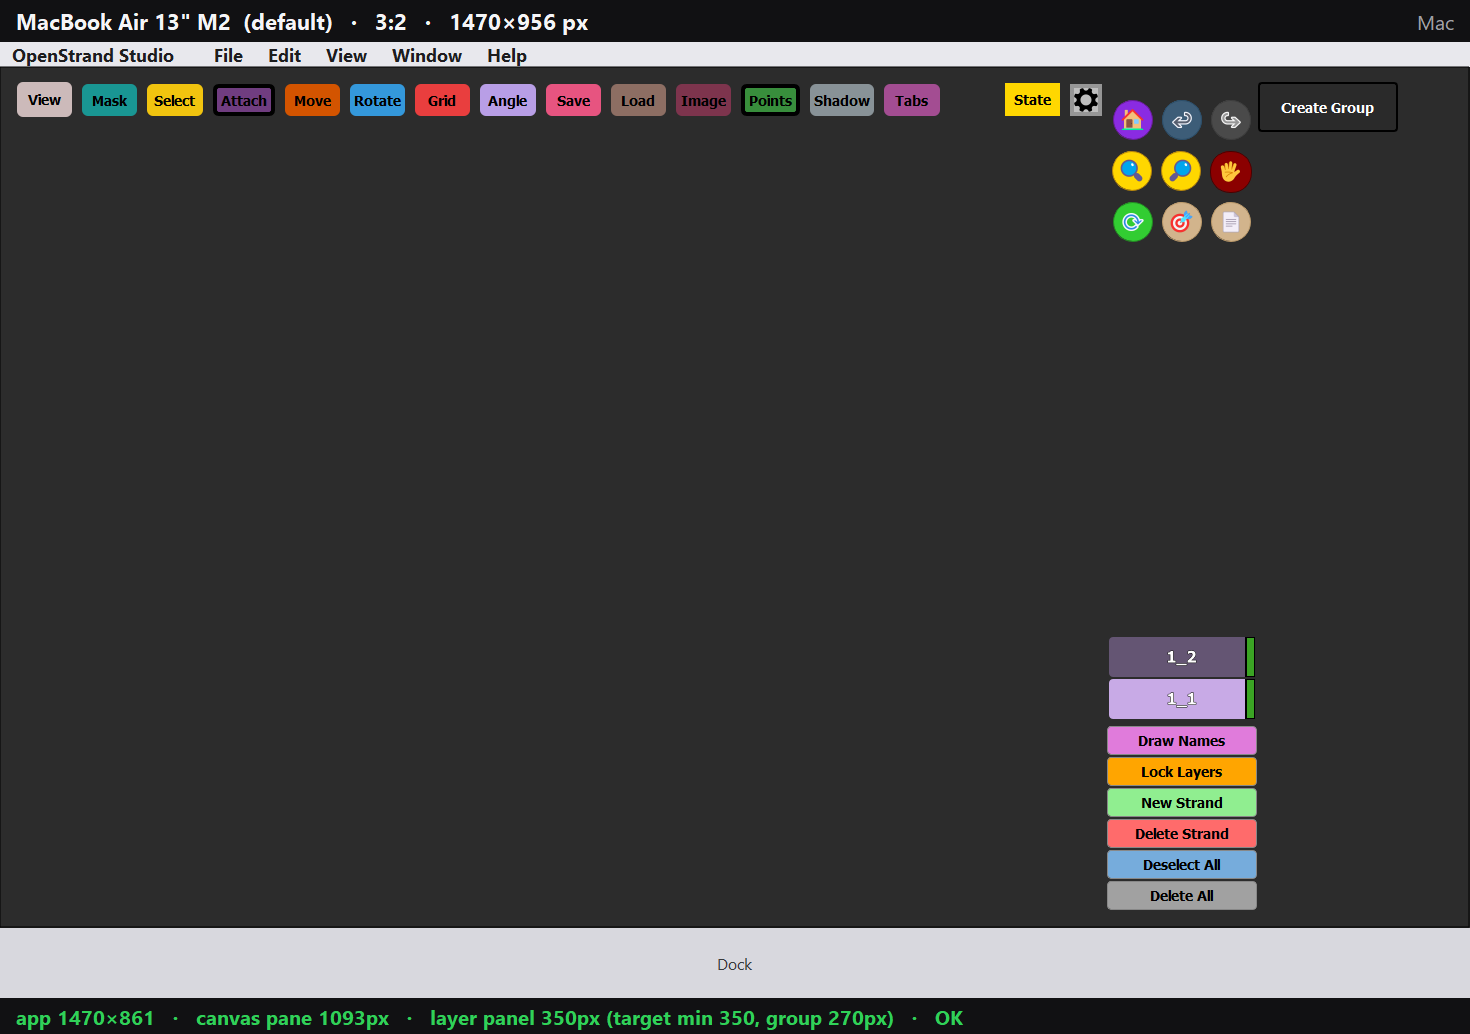
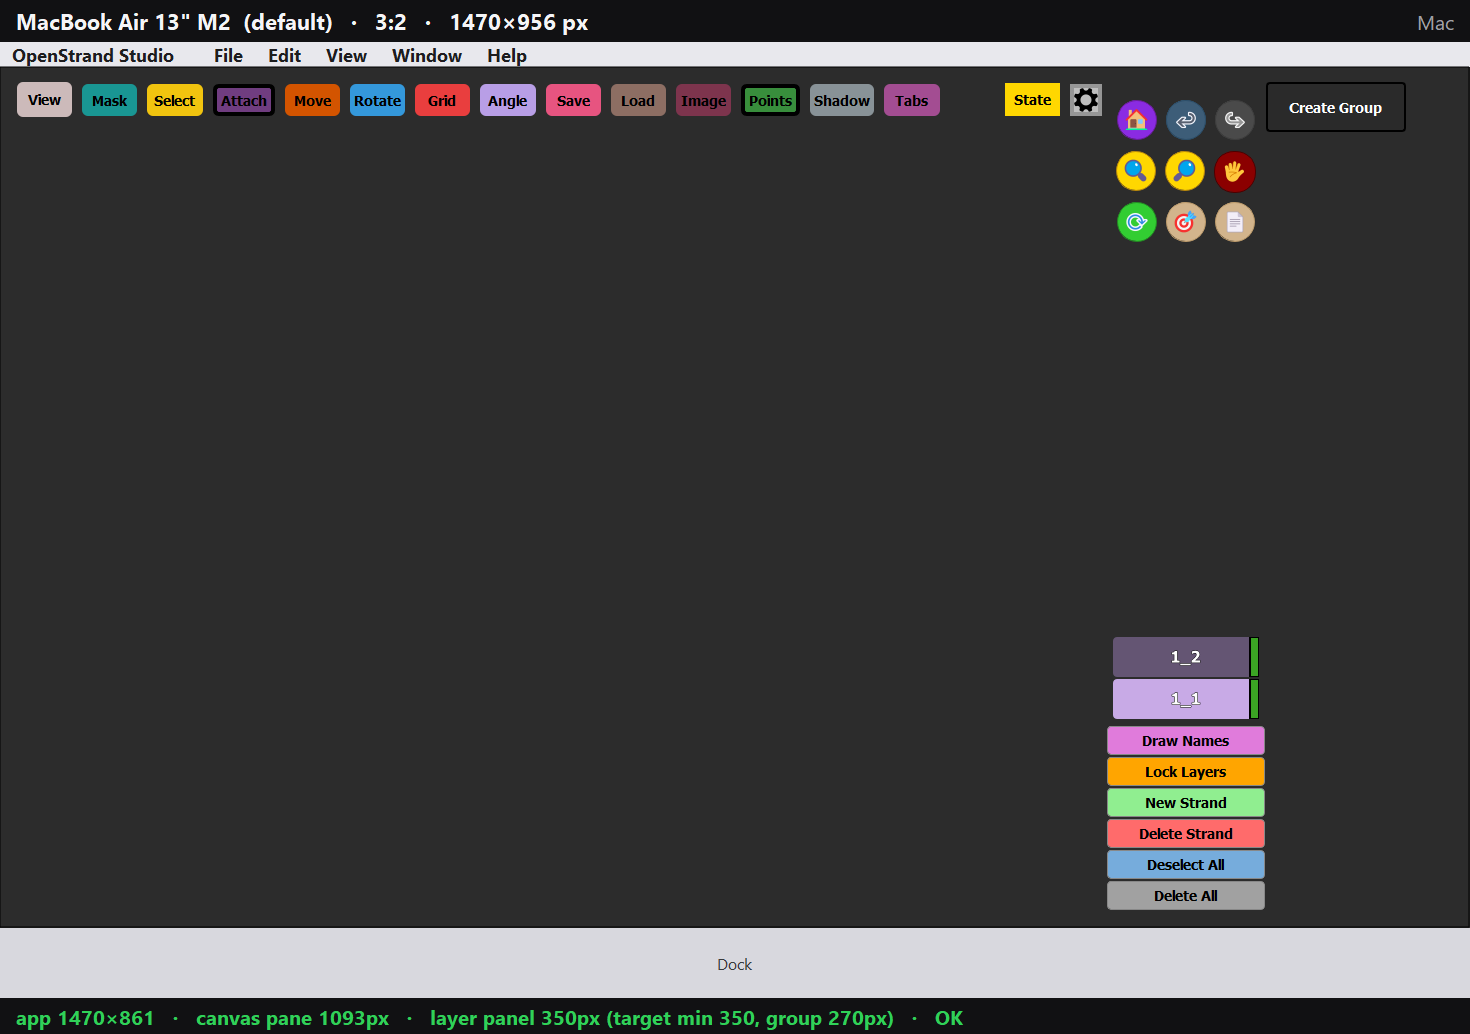
Reserve a vertical-scrollbar gutter in the compact layer panel
On compact screens (<1350px) the layer-list column was exactly as wide
as the fixed-width layer buttons, so the vertical scrollbar that appears
with many layers was painted under the group panel and covered the
buttons' edge. The list slot now reserves button width + scrollbar
extent (~158px) and the group panel genuinely shortens to the remainder
(~135px, Create Group capped to fit), so the scrollbar sits in its own
gutter beside the buttons. Wide screens keep their stock layout,
verified pixel-identical.

Adds a 30-layer capture script producing screenshots 11/12 that show the
scrollbar at compact and full widths, plus a feature README with porting
notes for the JS version.

Changed region(s): [[0.7653, 0.619, 0.8571, 0.8975], [0.7347, 0.0928, 0.949, 0.2476]]

diff --git a/src/layer_panel.py b/src/layer_panel.py
@@ -381,6 +381,8 @@ class LayerPanel(StrandDataClipboardMixin, QWidget):
     # Full width of the group panel (right_panel); narrow screens subtract
     # half of the compact reduction from it via set_compact_reduction.
     GROUP_PANEL_FULL_WIDTH = 270
+    # Fixed width of NumberedLayerButton (setFixedSize(146, 40)).
+    LAYER_LIST_BUTTON_WIDTH = 146
 
     def __init__(self, canvas, parent=None):
         super().__init__(parent)
@@ -1759,7 +1761,40 @@ class LayerPanel(StrandDataClipboardMixin, QWidget):
         The total reduction is split evenly: half comes off the group panel's
         fixed width, half off the layer list (which shrinks automatically once
         the panel's overall minimum width drops by the full reduction)."""
-        self.right_panel.setFixedWidth(self.GROUP_PANEL_FULL_WIDTH - reduction // 2)
+        create_group = self.group_layer_manager.create_group_button
+        if not hasattr(self, '_create_group_full_width'):
+            # GroupPanel gives the button a fixed width (140); remember it so
+            # the compact override below can be undone.
+            self._create_group_full_width = create_group.minimumWidth()
+        # Compact screens leave the layer-list column exactly as wide as the
+        # fixed-width layer buttons, so a vertical scrollbar (many layers)
+        # would be painted under the group panel and the buttons' edge would
+        # sit against it. Reserve a real scrollbar gutter by giving the list
+        # slot the extra width and making the group panel that much shorter,
+        # so the splitter can actually honor the split. Wide screens already
+        # have spare room and keep the default widths untouched.
+        if reduction > 0:
+            vbar = self.scroll_area.verticalScrollBar()
+            extent = max(
+                vbar.sizeHint().width(),
+                self.style().pixelMetric(QStyle.PM_ScrollBarExtent, None, vbar),
+            )
+            list_w = self.LAYER_LIST_BUTTON_WIDTH + extent + 2
+            right_w = max(0, self.minimumWidth() - list_w - self.splitter.handleWidth())
+            self.scroll_area.setMinimumWidth(list_w)
+            self.right_panel.setFixedWidth(right_w)
+            create_group.setFixedWidth(
+                min(self._create_group_full_width, max(50, right_w - 4))
+            )
+            self.splitter.setSizes([list_w, right_w])
+        else:
+            # Note: if the window is manually resized from a compact width
+            # back past the threshold within one session, the inner splitter
+            # keeps the slightly wider list column until restart (Qt won't
+            # shrink it back); harmless — nothing is clipped or hidden.
+            self.scroll_area.setMinimumWidth(0)
+            self.right_panel.setFixedWidth(self.GROUP_PANEL_FULL_WIDTH)
+            create_group.setFixedWidth(self._create_group_full_width)
 
     def _apply_group_panel_alignment(self):
         """Anchor the group block toward the edge shared with the layer panel."""

diff --git a/automation_tests/capture_many_layers_scrollbar.py b/automation_tests/capture_many_layers_scrollbar.py
@@ -1,0 +1,77 @@
+"""Capture the layer panel with ~30 layers so the vertical scrollbar shows.
+
+Produces two PNGs in docs/screen_ratio_layout_feature/screenshots:
+  11_compact_30_layers.png  - 1280x737 (MacBook Air M2 More Space, compact)
+  12_full_30_layers.png     - 1440x805 (MacBook Air Intel, full width)
+
+Run:
+    python automation_tests/capture_many_layers_scrollbar.py
+"""
+import os
+import sys
+
+ROOT_DIR = os.path.abspath(os.path.join(os.path.dirname(__file__), ".."))
+SRC_DIR = os.path.join(ROOT_DIR, "src")
+if SRC_DIR not in sys.path:
+    sys.path.insert(0, SRC_DIR)
+
+from capture_screen_ratio_mocks import (
+    OUT_DIR, _bootstrap, _force_available_size, _draw_sample_strands, _wait,
+)
+
+LAYER_COUNT = 30
+
+
+def main():
+    from PyQt5.QtCore import Qt
+    from PyQt5.QtGui import QPixmap
+
+    os.makedirs(OUT_DIR, exist_ok=True)
+    app, window = _bootstrap()
+    window._initial_show_completed = True
+    window.setAttribute(Qt.WA_DontShowOnScreen, True)
+    window.setMinimumSize(0, 0)
+    window.show()
+    app.processEvents()
+
+    _force_available_size(window, 1600, 900)
+    _draw_sample_strands(window)
+    window.canvas.deselect_all_strands()
+    app.processEvents()
+
+    panel = window.layer_panel
+    for i in range(len(panel.layer_buttons), LAYER_COUNT):
+        panel.add_layer_button(1, i + 1)
+    app.processEvents()
+    _wait(300)
+
+    # Wide first: capturing compact before wide would leave the compact
+    # gutter lingering in the wide shot (Qt keeps the wider list column
+    # within a session), which a real wide-screen launch never shows.
+    for w, h, name in [
+        (1440, 805, "12_full_30_layers.png"),
+        (1280, 737, "11_compact_30_layers.png"),
+    ]:
+        window.setFixedSize(16777215, 16777215)
+        window.setMaximumSize(16777215, 16777215)
+        _force_available_size(window, w, h)
+        _wait(300)
+        app.processEvents()
+        sa = panel.scroll_area
+        vbar = sa.verticalScrollBar()
+        print(f"[many-layers] {w}x{h}: viewport={sa.viewport().width()} "
+              f"vbar visible={vbar.isVisible()} range=0..{vbar.maximum()}", flush=True)
+        pix = QPixmap(window.size())
+        pix.fill(Qt.white)
+        window.render(pix)
+        path = os.path.join(OUT_DIR, name)
+        pix.save(path, "PNG")
+        print(f"[many-layers] wrote {path}", flush=True)
+
+    window.close()
+    app.quit()
+    return 0
+
+
+if __name__ == "__main__":
+    sys.exit(main())

diff --git a/docs/screen_ratio_layout_feature/README.md b/docs/screen_ratio_layout_feature/README.md
@@ -1,0 +1,58 @@
+# Screen ratio layout fix (compact layer panel)
+
+Branch: `fix-screen-ratio-layout`
+
+Makes the main window lay out correctly on narrow screens — the 1280-wide
+logical MacBook resolutions (MacBook 13" smallest-scaled 1280x800, MacBook
+Air 13" M2 "More Space" 1280x832) — where the toolbar buttons were cramped
+and the layer list had scrollbar problems.
+
+## What the fix does
+
+All numbers are logical pixels. The trigger is **window width < 1350px**
+(`MainWindow.COMPACT_WINDOW_WIDTH`); wide screens keep the stock layout,
+verified pixel-identical.
+
+1. **Compact panel width** (`main_window.py`,
+   `_apply_layer_panel_compact_width`): the layer panel minimum drops
+   350 -> 294 (reduction 56, split evenly between the group panel and the
+   layer list), so the canvas pane / toolbar gains 56px.
+2. **No horizontal scrollbar** (`layer_panel.py`): the layer-list scroll
+   area sets `ScrollBarAlwaysOff` horizontally — layer buttons are fixed
+   width (146) and centered, so horizontal scrolling could only ever cover
+   a ~2px overflow.
+3. **7px gap** under the lowest layer button: explicit layout spacing 5
+   (was platform default ~9) + bottom panel top margin 2 (was 5).
+4. **Vertical scrollbar gutter** (`layer_panel.py`,
+   `set_compact_reduction`): on compact screens the list column slot
+   becomes `146 (button) + scrollbar extent (~10) + 2 = ~158`, and the
+   group panel genuinely shortens to the remainder (~135, with the
+   Create Group button's fixed width capped to fit). Without this the
+   scrollbar that appears with many layers was painted *under* the group
+   panel and clipped the buttons' right edge. Wide screens already have
+   ~28px spare in their natural 174px column and are untouched.
+
+## Porting notes (e.g. for the JS version / ossjs)
+
+The essence, independent of Qt:
+
+- Layer buttons have a fixed width; the list column must be at least
+  `button width + vertical scrollbar width + margin` **whenever the panel
+  is slimmed**, otherwise the scrollbar overlaps the buttons.
+- Take the compact slimming from both sub-panels, but take the scrollbar
+  gutter from the group-panel side only, and shrink the group panel's
+  content (Create Group button) to match so nothing overflows.
+- Disable horizontal scrolling of the layer list entirely.
+- Threshold: apply compact mode below ~1350px viewport width.
+
+## Files
+
+- `src/main_window.py` — compact trigger + constants.
+- `src/layer_panel.py` — panel widths, gutter, gap, scrollbar policies.
+- `automation_tests/capture_screen_ratio_mocks.py` — renders
+  `screenshots/00..10` (full window at ten real screen ratios, with
+  pass/fail footer).
+- `automation_tests/capture_many_layers_scrollbar.py` — renders
+  `screenshots/11/12` (30 layers, scrollbar visible, compact vs full).
+- `automation_tests/preview_screen_ratio.py` — opens the live app at a
+  simulated screen size for manual QA.
